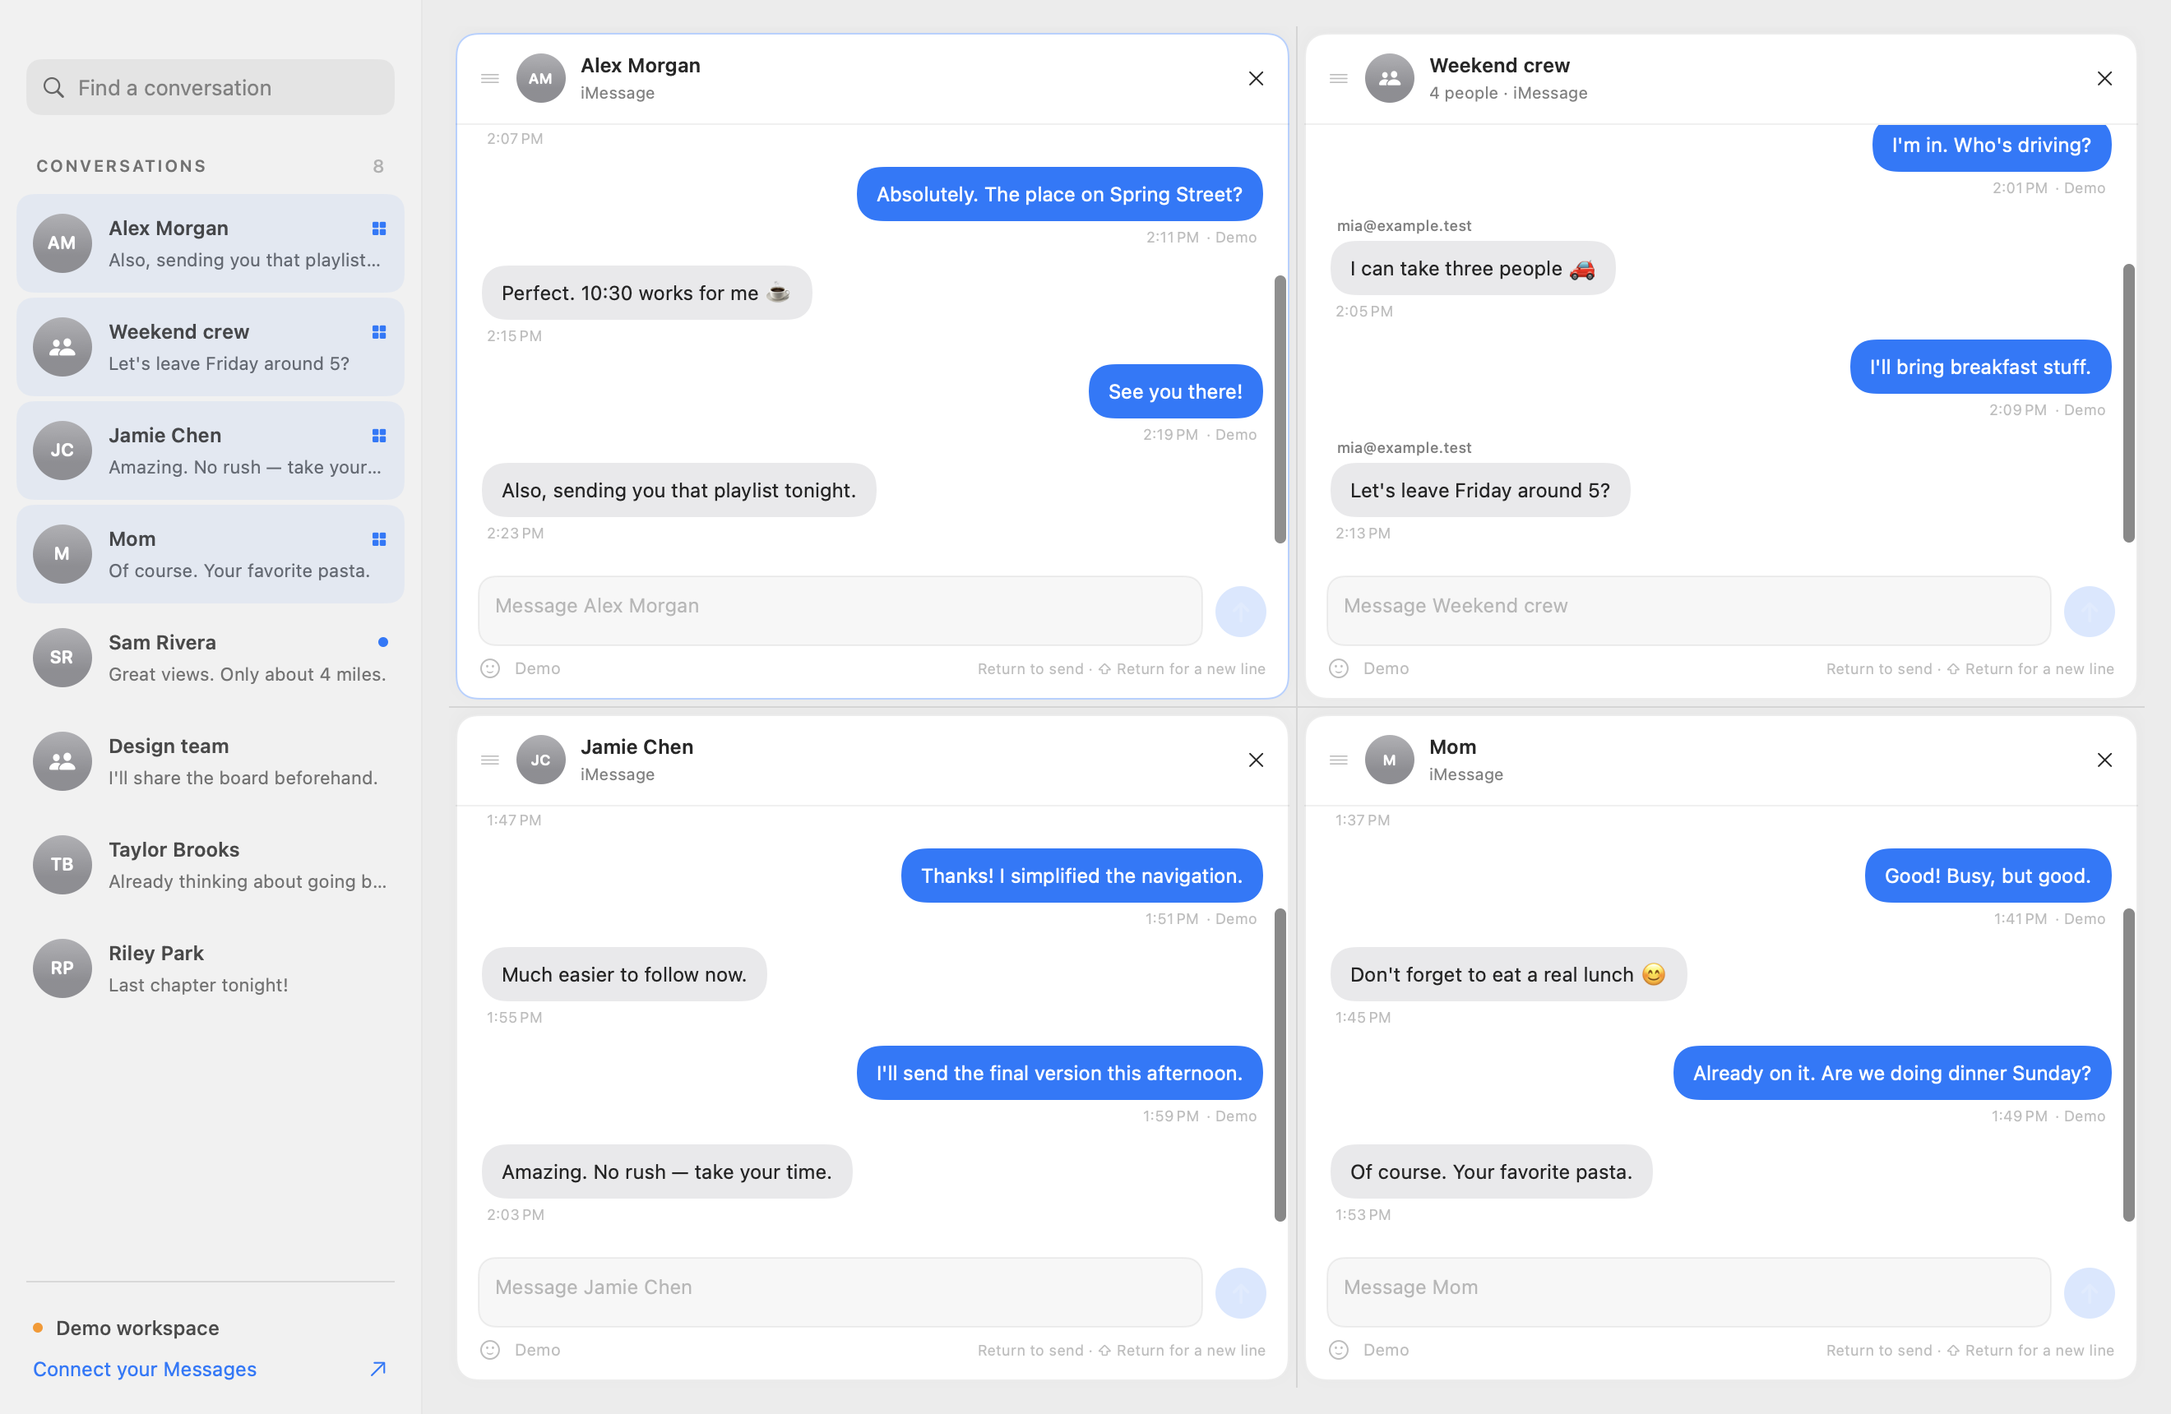
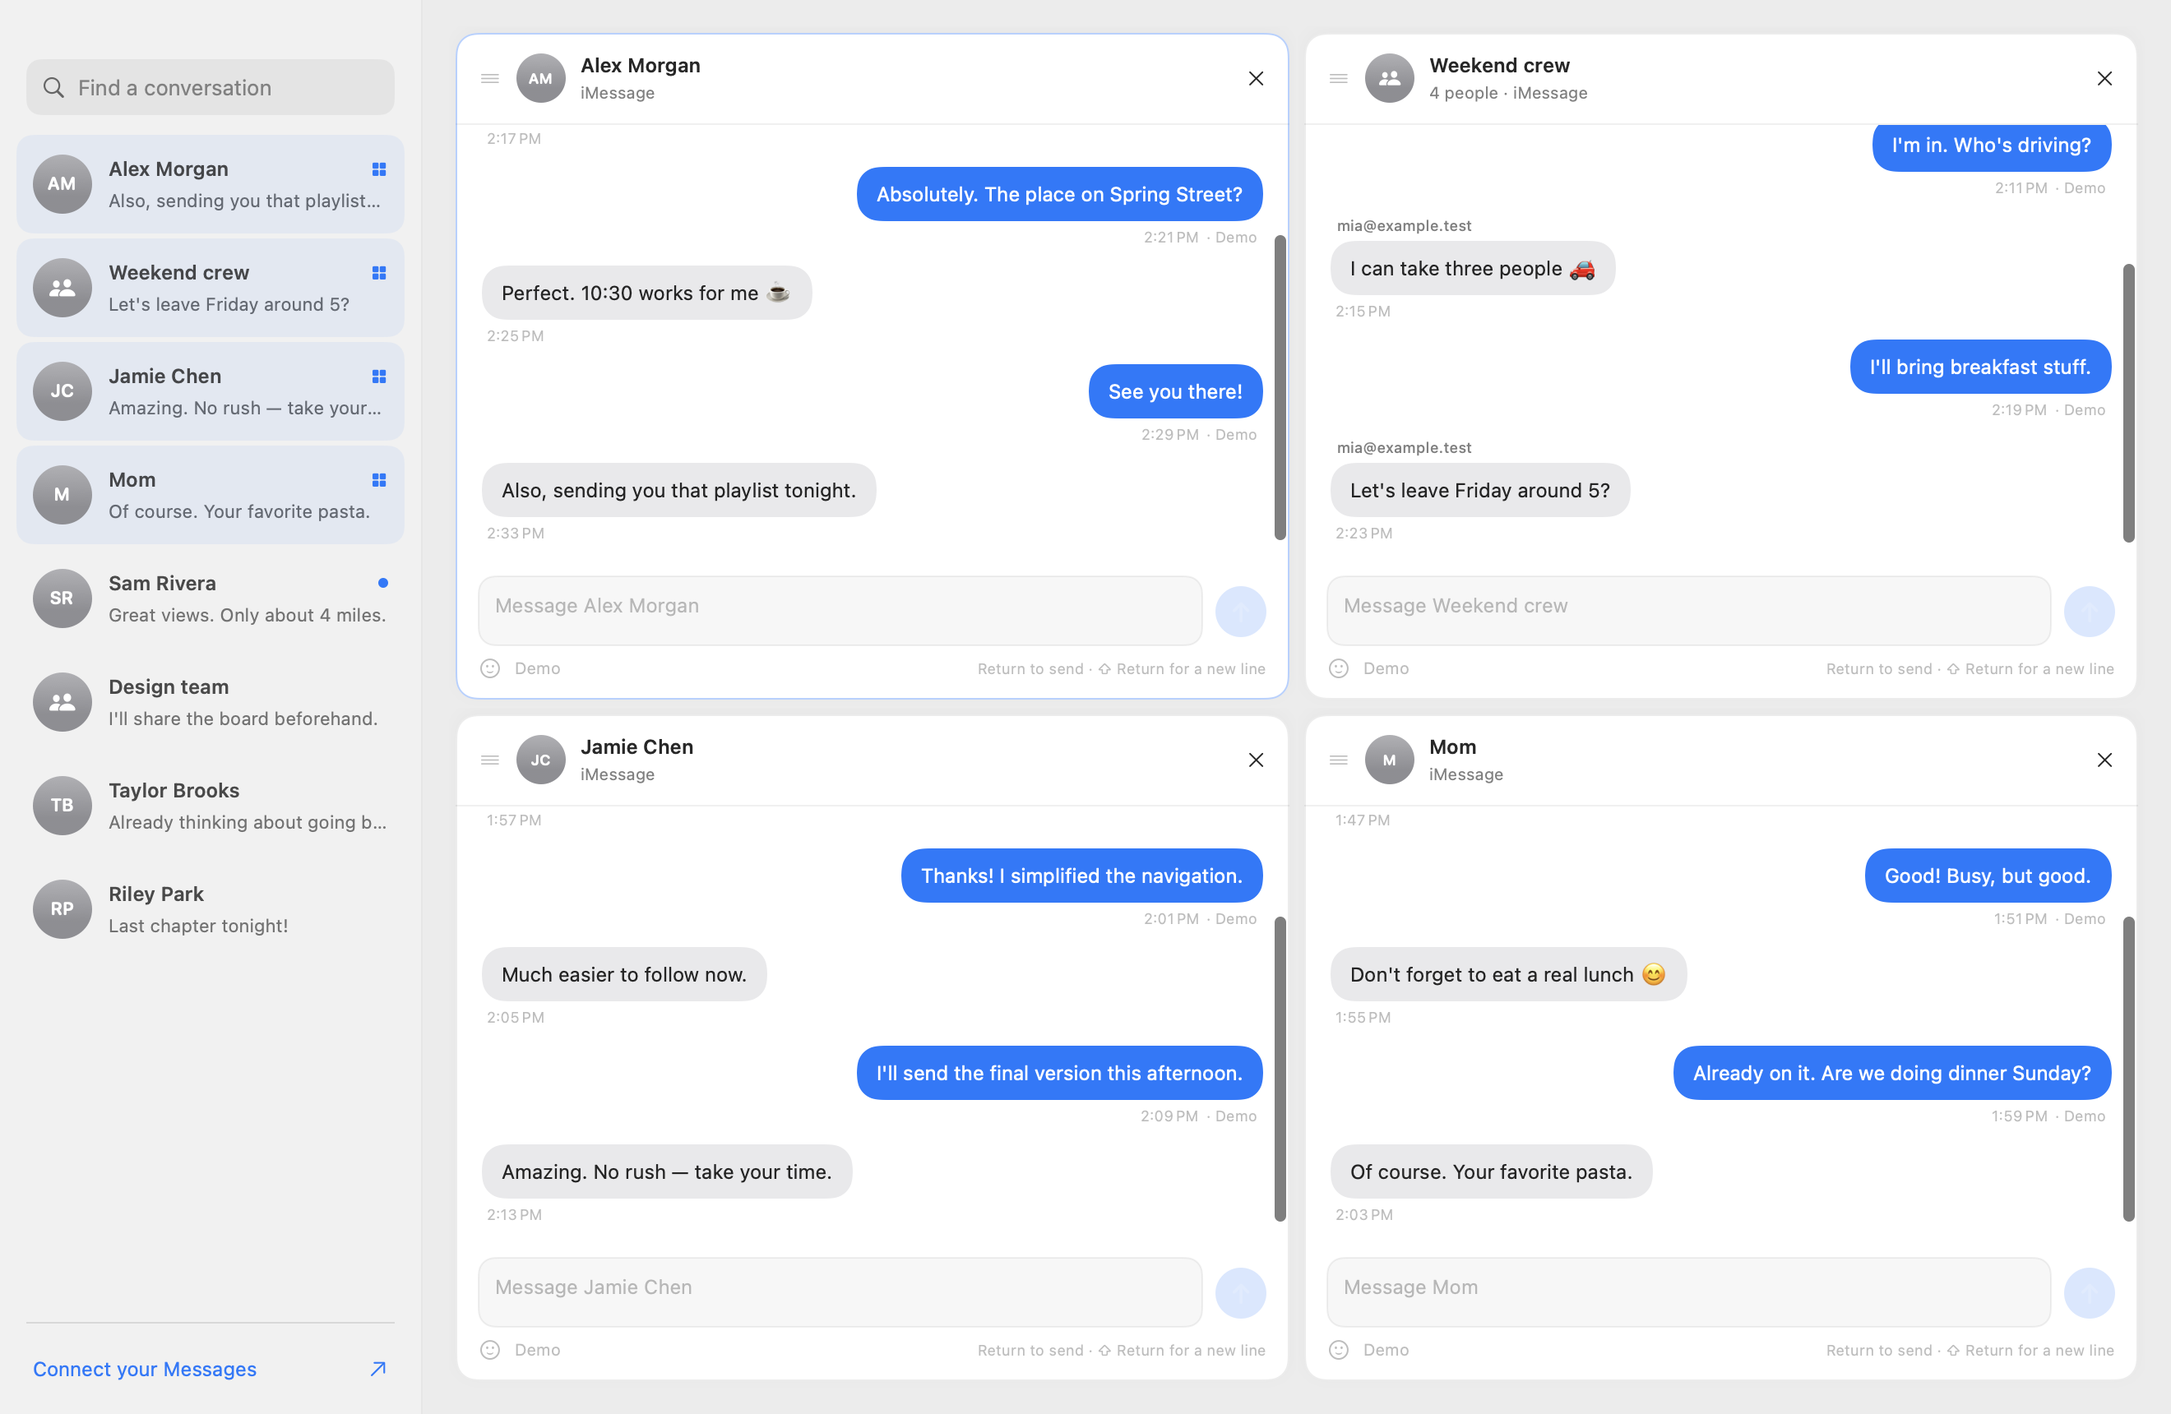
Remove sidebar status labels and hide tile dividers

Changed region(s): [[0.0, 0.0924, 0.1864, 0.7087], [0.0311, 0.9244, 0.0932, 0.9552], [0.1553, 0.3081, 0.1864, 0.339]]

diff --git a/Sources/Mosaic/WorkspaceView.swift b/Sources/Mosaic/WorkspaceView.swift
@@ -60,10 +60,6 @@ struct WorkspaceView: View {
                 if !store.search.isEmpty { Button { store.search = "" } label: { Image(systemName: "xmark.circle.fill") }.buttonStyle(.plain).foregroundStyle(.secondary) }
             }.padding(9).background(.quaternary.opacity(0.5), in: RoundedRectangle(cornerRadius: 9))
                 .padding(.horizontal, 16).padding(.top, 36)
-            HStack {
-                Text("CONVERSATIONS").font(.system(size: 10, weight: .semibold)).tracking(1.2).foregroundStyle(.secondary)
-                Spacer(); Text("\(store.conversations.count)").font(.system(size: 11, weight: .medium)).foregroundStyle(.tertiary)
-            }.padding(.horizontal, 22).padding(.top, 24).padding(.bottom, 10)
             ScrollView {
                 LazyVStack(spacing: 3) {
                     ForEach(store.filteredConversations) { conversation in
@@ -74,18 +70,12 @@ struct WorkspaceView: View {
                             .font(.callout).foregroundStyle(.secondary).padding(20)
                     }
                 }.padding(.horizontal, 10)
-            }
+            }.padding(.top, 12)
             Divider().padding(.horizontal, 16)
-            VStack(alignment: .leading, spacing: 10) {
-                HStack(spacing: 8) {
-                    Circle().fill(store.isLive && store.connectionError == nil ? Color.green : Color.orange).frame(width: 6, height: 6)
-                    Text(store.isLive ? "Messages on this Mac" : "Demo workspace").font(.system(size: 12, weight: .medium))
-                }
-                Button { store.showSetup = true } label: {
-                    HStack { Text(store.isLive ? "Connection settings" : "Connect your Messages"); Spacer(); Image(systemName: "arrow.up.right") }
-                        .font(.system(size: 12)).foregroundStyle(Palette.accent)
-                }.buttonStyle(.plain)
-            }.padding(20)
+            Button { store.showSetup = true } label: {
+                HStack { Text(store.isLive ? "Connection settings" : "Connect your Messages"); Spacer(); Image(systemName: "arrow.up.right") }
+                    .font(.system(size: 12)).foregroundStyle(Palette.accent)
+            }.buttonStyle(.plain).padding(20)
         }.background(.regularMaterial)
     }
     private var emptyWorkspace: some View {
@@ -149,27 +139,25 @@ struct TileWorkspace: View {
             case .grid:
                 let rows = stride(from: 0, to: store.tiles.count, by: 2).map { Array(store.tiles[$0..<min($0 + 2, store.tiles.count)]) }
                 ScrollView(.vertical) {
-                    VSplitView {
-                        ForEach(Array(rows.enumerated()), id: \.offset) { _, row in
-                            HSplitView {
-                                ForEach(row) { chat in
-                                    ConversationTile(conversation: chat)
-                                        .padding(4)
-                                        .frame(minWidth: 275, idealWidth: geometry.size.width / CGFloat(row.count), maxWidth: .infinity,
-                                               minHeight: 235, idealHeight: geometry.size.height / CGFloat(rows.count), maxHeight: .infinity)
-                                }
-                            }
-                        }
-                    }.frame(width: geometry.size.width, height: max(geometry.size.height, CGFloat(rows.count) * 250))
+                    TileSplitView(axis: .vertical, minimumPaneSize: 235, panes: rows.enumerated().map { index, row in
+                        TileSplitView.Pane(id: "row-\(index)", content: AnyView(
+                            TileSplitView(axis: .horizontal, minimumPaneSize: 275, panes: row.map { chat in
+                                TileSplitView.Pane(id: chat.id, content: AnyView(
+                                    ConversationTile(conversation: chat).environmentObject(store)
+                                        .padding(4).frame(maxWidth: .infinity, maxHeight: .infinity).background(Palette.canvas)
+                                ))
+                            }).frame(maxWidth: .infinity, maxHeight: .infinity).background(Palette.canvas)
+                        ))
+                    }).frame(width: geometry.size.width, height: max(geometry.size.height, CGFloat(rows.count) * 250))
                 }
             case .columns:
                 ScrollView(.horizontal) {
-                    HSplitView {
-                        ForEach(store.tiles) { chat in
-                            ConversationTile(conversation: chat)
-                                .frame(minWidth: 300, idealWidth: max(300, geometry.size.width / CGFloat(store.tiles.count)), maxWidth: .infinity)
-                        }
-                    }.frame(minWidth: max(geometry.size.width, CGFloat(store.tiles.count) * 300), minHeight: geometry.size.height - 12)
+                    TileSplitView(axis: .horizontal, minimumPaneSize: 300, panes: store.tiles.map { chat in
+                        TileSplitView.Pane(id: chat.id, content: AnyView(
+                            ConversationTile(conversation: chat).environmentObject(store)
+                                .padding(4).frame(maxWidth: .infinity, maxHeight: .infinity).background(Palette.canvas)
+                        ))
+                    }).frame(width: max(geometry.size.width, CGFloat(store.tiles.count) * 301 - 1), height: geometry.size.height - 12)
                 }
             case .focus:
                 VStack(spacing: 12) {

diff --git a/Sources/Mosaic/TileSplitView.swift b/Sources/Mosaic/TileSplitView.swift
@@ -1,0 +1,85 @@
+import SwiftUI
+import AppKit
+
+/// Native resize behavior with transparent dividers between the floating tiles.
+struct TileSplitView: NSViewRepresentable {
+    struct Pane {
+        let id: String
+        let content: AnyView
+    }
+    let axis: Axis
+    let minimumPaneSize: CGFloat
+    let panes: [Pane]
+
+    func makeCoordinator() -> Coordinator { Coordinator() }
+    func makeNSView(context: Context) -> FloatingSplitView {
+        let split = FloatingSplitView()
+        split.isVertical = axis == .horizontal
+        split.dividerStyle = .thin
+        split.delegate = context.coordinator
+        return split
+    }
+    func updateNSView(_ split: FloatingSplitView, context: Context) {
+        let coordinator = context.coordinator
+        coordinator.minimumPaneSize = minimumPaneSize
+        let ids = panes.map(\.id)
+        if coordinator.ids != ids {
+            let retained = Set(ids)
+            for id in coordinator.hosts.keys.filter({ !retained.contains($0) }) {
+                coordinator.hosts.removeValue(forKey: id)?.removeFromSuperview()
+            }
+            for view in split.subviews { view.removeFromSuperview() }
+            for pane in panes {
+                let host = coordinator.hosts[pane.id] ?? NSHostingView(rootView: pane.content)
+                host.sizingOptions = []
+                host.autoresizingMask = [.width, .height]
+                coordinator.hosts[pane.id] = host
+                split.addSubview(host)
+            }
+            coordinator.ids = ids
+            split.needsEqualLayout = true
+        }
+        for pane in panes { coordinator.hosts[pane.id]?.rootView = pane.content }
+        split.needsLayout = true
+    }
+
+    final class Coordinator: NSObject, NSSplitViewDelegate {
+        var ids: [String] = []
+        var hosts: [String: NSHostingView<AnyView>] = [:]
+        var minimumPaneSize: CGFloat = 0
+
+        func splitView(_ splitView: NSSplitView, constrainMinCoordinate proposed: CGFloat, ofSubviewAt index: Int) -> CGFloat {
+            let frame = splitView.subviews[index].frame
+            return max(proposed, (splitView.isVertical ? frame.minX : frame.minY) + minimumPaneSize)
+        }
+        func splitView(_ splitView: NSSplitView, constrainMaxCoordinate proposed: CGFloat, ofSubviewAt index: Int) -> CGFloat {
+            let frame = splitView.subviews[index + 1].frame
+            return min(proposed, (splitView.isVertical ? frame.maxX : frame.maxY) - minimumPaneSize - splitView.dividerThickness)
+        }
+        func splitView(_ splitView: NSSplitView, effectiveRect proposed: NSRect, forDrawnRect drawn: NSRect, ofDividerAt index: Int) -> NSRect {
+            drawn.insetBy(dx: splitView.isVertical ? -4 : 0, dy: splitView.isVertical ? 0 : -4)
+        }
+    }
+}
+
+final class FloatingSplitView: NSSplitView {
+    var needsEqualLayout = true
+    override var isFlipped: Bool { true }
+    override var dividerColor: NSColor { .clear }
+    override func drawDivider(in rect: NSRect) {}
+
+    override func layout() {
+        if needsEqualLayout, !subviews.isEmpty, bounds.width > 0, bounds.height > 0 {
+            let extent = isVertical ? bounds.width : bounds.height
+            let paneSize = max(0, (extent - CGFloat(subviews.count - 1) * dividerThickness) / CGFloat(subviews.count))
+            for (index, view) in subviews.enumerated() {
+                let position = CGFloat(index) * (paneSize + dividerThickness)
+                view.frame = isVertical
+                    ? NSRect(x: position, y: 0, width: paneSize, height: bounds.height)
+                    : NSRect(x: 0, y: position, width: bounds.width, height: paneSize)
+            }
+            needsEqualLayout = false
+        }
+        super.layout()
+    }
+}

diff --git a/Tests/MosaicUITests/TileSplitViewTests.swift b/Tests/MosaicUITests/TileSplitViewTests.swift
@@ -1,0 +1,52 @@
+import XCTest
+import AppKit
+@testable import Mosaic
+
+final class TileSplitViewTests: XCTestCase {
+    @MainActor func testTileResizeSurvivesLayoutAndWindowResize() {
+        _ = NSApplication.shared
+        for vertical in [true, false] {
+            let split = FloatingSplitView(frame: NSRect(x: 0, y: 0, width: 800, height: 800))
+            split.isVertical = vertical
+            split.dividerStyle = .thin
+            split.addSubview(NSView())
+            split.addSubview(NSView())
+            split.layoutSubtreeIfNeeded()
+            split.setPosition(325, ofDividerAt: 0)
+            split.needsLayout = true
+            split.layoutSubtreeIfNeeded()
+            let first = split.subviews[0].frame
+            XCTAssertEqual(vertical ? first.width : first.height, 325, accuracy: 1)
+
+            let fraction = (vertical ? first.width : first.height) / (800 - split.dividerThickness)
+            split.setFrameSize(NSSize(width: 1000, height: 1000))
+            split.adjustSubviews()
+            split.layoutSubtreeIfNeeded()
+            let resized = split.subviews[0].frame
+            XCTAssertEqual(vertical ? resized.width : resized.height, fraction * (1000 - split.dividerThickness), accuracy: 1)
+            let last = split.subviews[1].frame
+            XCTAssertEqual(vertical ? last.maxX : last.maxY, 1000, accuracy: 1)
+        }
+    }
+
+    @MainActor func testInvisibleDividerKeepsMinimumTileSizes() {
+        _ = NSApplication.shared
+        let split = FloatingSplitView(frame: NSRect(x: 0, y: 0, width: 800, height: 600))
+        split.isVertical = true
+        split.dividerStyle = .thin
+        let coordinator = TileSplitView.Coordinator()
+        coordinator.minimumPaneSize = 275
+        split.delegate = coordinator
+        split.addSubview(NSView())
+        split.addSubview(NSView())
+        split.layoutSubtreeIfNeeded()
+        split.setPosition(10, ofDividerAt: 0)
+        XCTAssertGreaterThanOrEqual(split.subviews[0].frame.width, 275)
+        split.setPosition(790, ofDividerAt: 0)
+        XCTAssertGreaterThanOrEqual(split.subviews[1].frame.width, 275)
+        let divider = NSRect(x: split.subviews[0].frame.maxX, y: 0, width: split.dividerThickness, height: 600)
+        let handle = coordinator.splitView(split, effectiveRect: divider, forDrawnRect: divider, ofDividerAt: 0)
+        XCTAssertGreaterThan(handle.width, divider.width)
+        XCTAssertTrue(handle.contains(NSPoint(x: divider.midX, y: 300)))
+    }
+}

diff --git a/scripts/preview/main.swift b/scripts/preview/main.swift
@@ -11,6 +11,8 @@ MainActor.assumeIsolated {
     app.setActivationPolicy(.prohibited)
     app.appearance = NSAppearance(named: CommandLine.arguments.contains("--dark") ? .darkAqua : .aqua)
     let store = WorkspaceStore(defaults: UserDefaults(suiteName: "MosaicPreview-\(UUID())")!)
+    if CommandLine.arguments.contains("--columns") { store.workspace.layout = .columns }
+    if CommandLine.arguments.contains("--focus") { store.workspace.layout = .focus }
     if CommandLine.arguments.contains("--sms"), let chat = store.conversations.first {
         store.conversations[0] = Conversation(id: chat.id, databaseID: chat.databaseID, name: chat.name,
             participants: chat.participants, service: "SMS", preview: chat.preview, lastActivity: chat.lastActivity,

diff --git a/docs/VALIDATION.md b/docs/VALIDATION.md
@@ -3,10 +3,10 @@
 Validated locally with Swift 6.0.2 / Xcode 16.1 on Apple Silicon.
 
 - SwiftPM debug compilation: passed.
-- XCTest suite: 14 tests passed (10 core tests and 4 composer/bridge tests).
+- XCTest suite: 16 tests passed (10 core tests and 6 UI/bridge tests), including tile resizing, minimum sizes, and invisible divider handles.
 - Release archive packaging and ad-hoc signature verification: passed (verified before archiving and again after extracting outside the synced Desktop).
 - Native Xcode project: build verified separately.
-- Native demo view rendered and inspected at 1320 × 860 points in light and dark appearances, including a synthetic SMS conversation to verify green outgoing bubbles.
+- Native demo view rendered and inspected at 1320 × 860 points in light and dark appearances, including floating Grid/Columns tiles and a synthetic SMS conversation to verify green outgoing bubbles.
 - Return, Shift–Return, independent demo sends, and AppleScript compilation tested without sending any real messages.
 
 Tests use a synthetic SQLite database and fictional contacts. Real Messages history, transport behavior, and sending are not exercised by automated tests. Complete Full Disk Access and Automation setup, then test a conversation you choose before relying on the live bridge. Never use automated tests to send unsolicited messages.

diff --git a/README.md b/README.md
@@ -6,7 +6,7 @@ A native macOS SwiftUI workspace for keeping several Messages conversations open
 
 Open a conversation from the sidebar to give it a tile. Keep up to eight chats open, resize the dividers, drag a header onto another tile to reorder, and reply from each tile's own composer. Grid, Columns, and Focus layouts are available. Open tiles, layout mode, and independent drafts survive reopening the app; divider sizes are adjusted within the current session.
 
-The tile area fills the right side of the window, with search at the top of the sidebar. Switch layouts with **⌘⌥1 / ⌘⌥2 / ⌘⌥3**; layout controls and workspace status bars stay out of the conversation area. The interface follows the system's light/dark appearance with blue iMessage bubbles, green SMS/RCS bubbles, and gray incoming messages. The original four-chat icon is green.
+The tile area fills the right side of the window, with search directly above the conversation list and no conversation-count or workspace-status labels. Tiles float over a solid background; invisible divider handles keep them resizable. Switch layouts with **⌘⌥1 / ⌘⌥2 / ⌘⌥3**. The interface follows the system's light/dark appearance with blue iMessage bubbles, green SMS/RCS bubbles, and gray incoming messages. The original four-chat icon is green.
 
 ## Run
 
